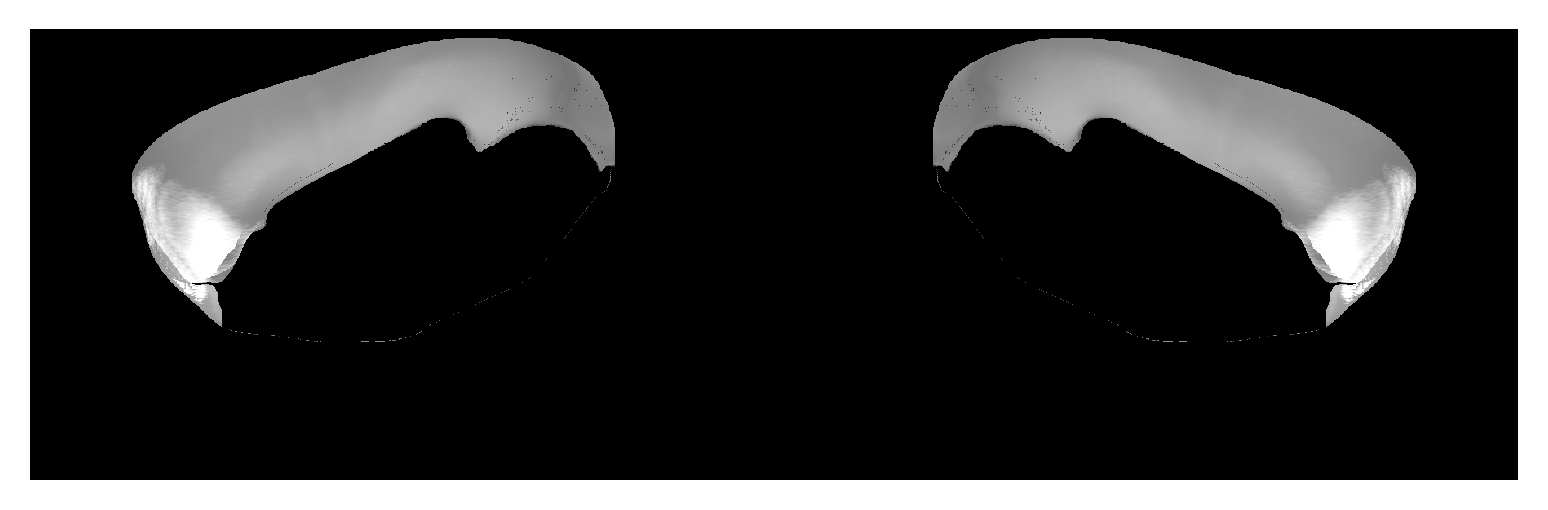
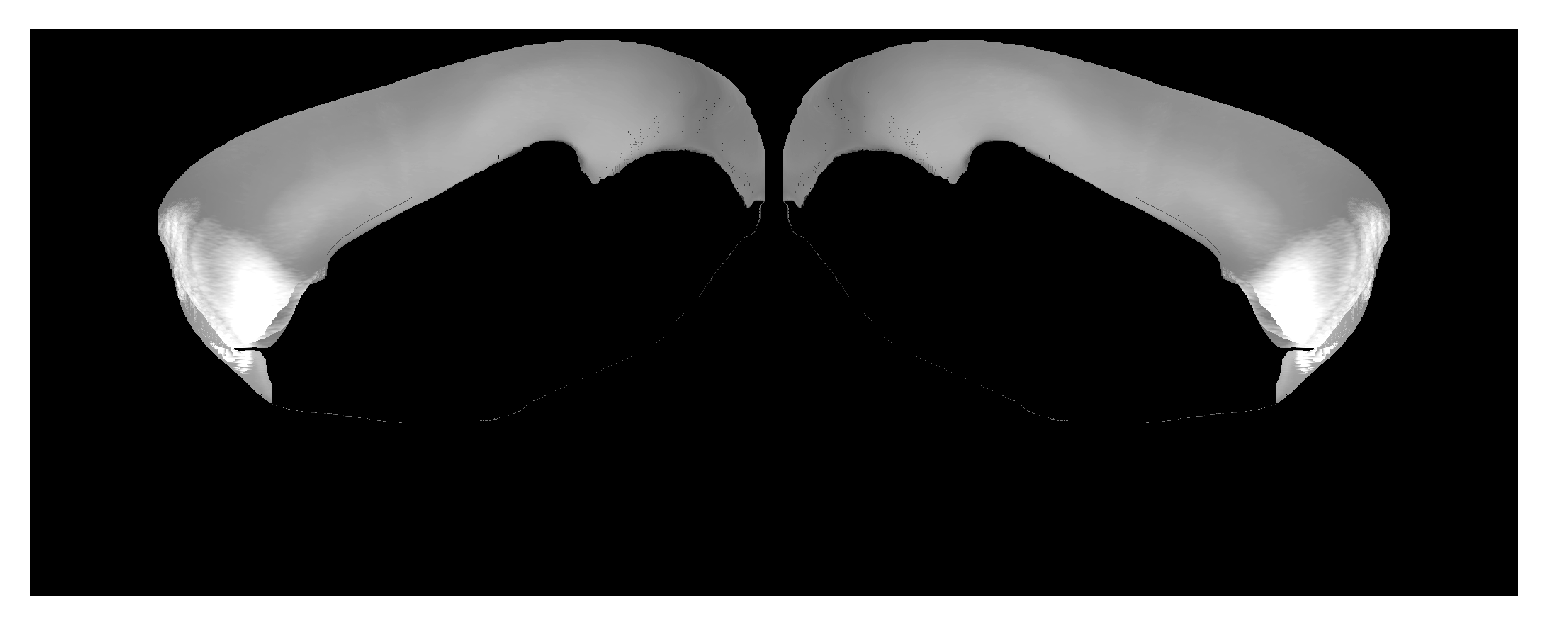
Add other views to custom list for hemisphere spacing

Changed region(s): [[0.0, 0.0294, 0.9922, 0.6471], [0.0, 0.9412, 0.9922, 0.9706]]

diff --git a/ccf_streamlines/projection.py b/ccf_streamlines/projection.py
@@ -11,6 +11,15 @@ from scipy.spatial.distance import cdist
 from ccf_streamlines.linestring3d import LineString3D
 
 
+HEMISPHERE_SPACE_VIEW_LOOKUP = {
+    "flatmap_butterfly": 184,
+    "flatmap_dorsal": 110,
+    "medial": 270,
+    "side": 270,
+    "rotated": 390,
+}
+
+
 class Isocortex2dProjector:
     """ 2D projection of common cortical framework volumes
 
@@ -24,14 +33,16 @@ class Isocortex2dProjector:
     hemisphere : {"both", "left", "right"}
         Whether to create a final projection with both hemispheres (default)
         or just left or right.
-    view_space_for_other_hemisphere : bool, 'flatmap_dorsal', 'flatmap_butterfly', or int, optional
+    view_space_for_other_hemisphere : bool, str, or int, optional
         If False (default), view is used as-is. If True, view is assumed to have
         the right half reserved for the other hemisphere, so that returning
         both hemispheres will result in a projection the size of the original
-        view. If 'flatmap_dorsal' or 'flatmap_butterfly', enough voxels will be removed to
-        cause the two hemispheres to be adjacent if used with the views of the same name.
+        view. This is valid for the 'top', 'back', 'bottom', and 'front' views.
+        If the value is a str, it must be one of 'flatmap_dorsal', flatmap_butterfly',
+        'medial', 'side', or 'rotated', which will use a preset value to place
+        the hemispheres adjacent or near adjacent when used with the views of the same name.
         If an integer of value `n`, the right-most `n` voxels will be removed
-        before combining both hemisphere.
+        before combining both hemispheres to allow the user to customize the spacing.
     """
 
     def __init__(self,
@@ -57,10 +68,8 @@ class Isocortex2dProjector:
             if isinstance(view_space_for_other_hemisphere, bool):
                 self.view_space_for_other_hemisphere = self.view_size[0] // 2
             elif isinstance(view_space_for_other_hemisphere, str):
-                if view_space_for_other_hemisphere == "flatmap_butterfly":
-                    self.view_space_for_other_hemisphere = 184
-                elif view_space_for_other_hemisphere == "flatmap_dorsal":
-                    self.view_space_for_other_hemisphere = 110
+                if view_space_for_other_hemisphere in HEMISPHERE_SPACE_VIEW_LOOKUP:
+                    self.view_space_for_other_hemisphere = HEMISPHERE_SPACE_VIEW_LOOKUP[view_space_for_other_hemisphere]
                 else:
                     raise ValueError(f"`view_space_for_other_hemisphere is {view_space_for_other_hemisphere} - unknown string option")
             else:
@@ -235,10 +244,12 @@ class Isocortex3dProjector(Isocortex2dProjector):
         If False (default), view is used as-is. If True, view is assumed to have
         the right half reserved for the other hemisphere, so that returning
         both hemispheres will result in a projection the size of the original
-        view. If 'flatmap_dorsal' or 'flatmap_butterfly', enough voxels will be removed to
-        cause the two hemispheres to be adjacent if used with the views of the same name.
+        view. This is valid for the 'top', 'back', 'bottom', and 'front' views.
+        If the value is a str, it must be one of 'flatmap_dorsal', flatmap_butterfly',
+        'medial', 'side', or 'rotated', which will use a preset value to place
+        the hemispheres adjacent or near adjacent when used with the views of the same name.
         If an integer of value `n`, the right-most `n` voxels will be removed
-        before combining both hemisphere.
+        before combining both hemispheres to allow the user to customize the spacing.
     """
     ISOCORTEX_LAYER_KEYS = [
         'Isocortex layer 1',
@@ -563,10 +574,12 @@ class BoundaryFinder:
             If False (default), view is used as-is. If True, view is assumed to have
             the right half reserved for the other hemisphere, so that returning
             both hemispheres will result in a projection the size of the original
-            view. If 'flatmap_dorsal' or 'flatmap_butterfly', enough voxels will be removed to
-            cause the two hemispheres to be adjacent if used with the views of the same name.
+            view. This is valid for the 'top', 'back', 'bottom', and 'front' views.
+            If the value is a str, it must be one of 'flatmap_dorsal', flatmap_butterfly',
+            'medial', 'side', or 'rotated', which will use a preset value to place
+            the hemispheres adjacent or near adjacent when used with the views of the same name.
             If an integer of value `n`, the right-most `n` voxels will be removed
-            before combining both hemisphere.
+            before combining both hemispheres to allow the user to customize the spacing.
 
         Returns
         -------
@@ -650,10 +663,8 @@ class BoundaryFinder:
             if isinstance(view_space_for_other_hemisphere, bool):
                 view_space_for_other_hemisphere = self.proj_atlas.shape[0] // 2
             elif isinstance(view_space_for_other_hemisphere, str):
-                if view_space_for_other_hemisphere == "flatmap_butterfly":
-                    view_space_for_other_hemisphere = 184
-                elif view_space_for_other_hemisphere == "flatmap_dorsal":
-                    view_space_for_other_hemisphere = 110
+                if view_space_for_other_hemisphere in HEMISPHERE_SPACE_VIEW_LOOKUP:
+                    view_space_for_other_hemisphere = HEMISPHERE_SPACE_VIEW_LOOKUP[view_space_for_other_hemisphere]
                 else:
                     raise ValueError(f"`view_space_for_other_hemisphere is {view_space_for_other_hemisphere} - unknown string option")
         else:
@@ -788,10 +799,12 @@ class IsocortexCoordinateProjector:
             If False (default), view is used as-is. If True, view is assumed to have
             the right half reserved for the other hemisphere, so that returning
             both hemispheres will result in a projection the size of the original
-            view. If 'flatmap_dorsal' or 'flatmap_butterfly', enough voxels will be removed to
-            cause the two hemispheres to be adjacent if used with the views of the same name.
+            view. This is valid for the 'top', 'back', 'bottom', and 'front' views.
+            If the value is a str, it must be one of 'flatmap_dorsal', flatmap_butterfly',
+            'medial', 'side', or 'rotated', which will use a preset value to place
+            the hemispheres adjacent or near adjacent when used with the views of the same name.
             If an integer of value `n`, the right-most `n` voxels will be removed
-            before combining both hemisphere.
+            before combining both hemispheres to allow the user to customize the spacing.
         drop_voxels_outside_view_streamlines : bool, default False
             Whether to set x-y coordinates of voxels not within streamlines
             used in 2-D view to NaN. If False (default), the nearest streamline within
@@ -811,10 +824,8 @@ class IsocortexCoordinateProjector:
             if isinstance(view_space_for_other_hemisphere, bool):
                 view_space_for_other_hemisphere = self.view_size[0] // 2
             elif isinstance(view_space_for_other_hemisphere, str):
-                if view_space_for_other_hemisphere == "flatmap_butterfly":
-                    view_space_for_other_hemisphere = 184
-                elif view_space_for_other_hemisphere == "flatmap_dorsal":
-                    view_space_for_other_hemisphere = 110
+                if view_space_for_other_hemisphere in HEMISPHERE_SPACE_VIEW_LOOKUP:
+                    view_space_for_other_hemisphere = HEMISPHERE_SPACE_VIEW_LOOKUP[view_space_for_other_hemisphere]
                 else:
                     raise ValueError(f"`view_space_for_other_hemisphere is {view_space_for_other_hemisphere} - unknown string option")
         else:

diff --git a/docs/source/data_files.rst b/docs/source/data_files.rst
@@ -48,7 +48,7 @@ View lookups
       - .. image:: /images/flatmap_butterfly_template.png
            :width: 400
     * - `flatmap_dorsal.h5 <https://download.alleninstitute.org/informatics-archive/current-release/mouse_ccf/cortical_coordinates/ccf_2017/ccf_streamlines_assets/view_lookup/flatmap_dorsal.h5>`_
-      - Correspondence between flattened map of all of isocortex and CCF volume. Can place hemispheres adjacent to each other with ``view_space_for_other_hemisphere = 'flatmap_dorsal'``.
+      - Correspondence between flattened map of all of isocortex and CCF volume. Can place hemispheres near each other with ``view_space_for_other_hemisphere = 'flatmap_dorsal'``.
       - .. image:: /images/flatmap_dorsal_template.png
            :width: 400
     * - `front.h5 <https://download.alleninstitute.org/informatics-archive/current-release/mouse_ccf/cortical_coordinates/ccf_2017/ccf_streamlines_assets/view_lookup/front.h5>`_
@@ -56,15 +56,14 @@ View lookups
       - .. image:: /images/front_template.png
            :width: 400
     * - `medial.h5 <https://download.alleninstitute.org/informatics-archive/current-release/mouse_ccf/cortical_coordinates/ccf_2017/ccf_streamlines_assets/view_lookup/medial.h5>`_
-      - Correspondence between view from medial side of isocortex and CCF volume. Need to use with ``view_space_for_other_hemisphere = False``.
+      - Correspondence between view from medial side of isocortex and CCF volume. Can place hemispheres near each other with ``view_space_for_other_hemisphere = 'medial'``.
       - .. image:: /images/medial_template.png
            :width: 400
     * - `rotated.h5 <https://download.alleninstitute.org/informatics-archive/current-release/mouse_ccf/cortical_coordinates/ccf_2017/ccf_streamlines_assets/view_lookup/rotated.h5>`_
-      - Correspondence between view from near the top but rotated to see more of lateral isocortex and CCF volume. Need to use with ``view_space_for_other_hemisphere = False``.
-      - .. image:: /images/rotated_template.png
+      - Correspondence between view from near the top but rotated to see more of lateral isocortex and CCF volume. Can place hemispheres near each other with ``view_space_for_other_hemisphere = 'rotated'``.
            :width: 400
     * - `side.h5 <https://download.alleninstitute.org/informatics-archive/current-release/mouse_ccf/cortical_coordinates/ccf_2017/ccf_streamlines_assets/view_lookup/side.h5>`_
-      - Correspondence between view from lateral side of isocortex and CCF volume. Need to use with ``view_space_for_other_hemisphere = False``.
+      - Correspondence between view from lateral side of isocortex and CCF volume. Can place hemispheres near each other with ``view_space_for_other_hemisphere = 'side'``.
       - .. image:: /images/side_template.png
            :width: 400
     * - `top.h5 <https://download.alleninstitute.org/informatics-archive/current-release/mouse_ccf/cortical_coordinates/ccf_2017/ccf_streamlines_assets/view_lookup/top.h5>`_
